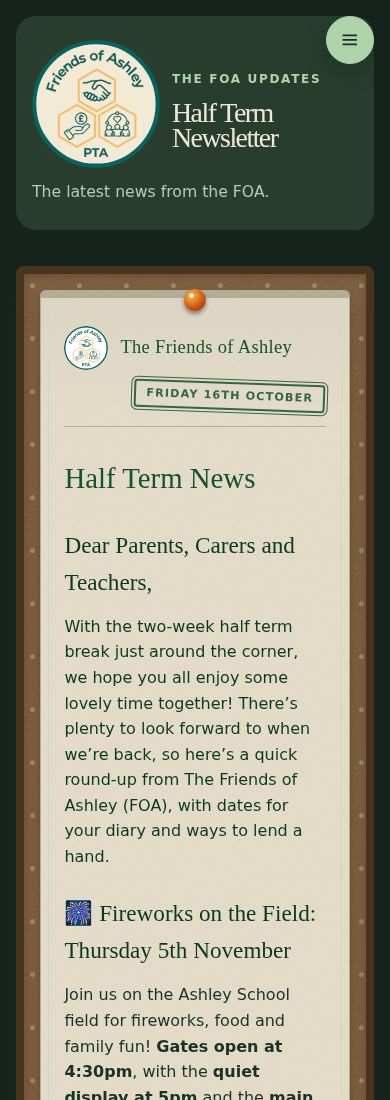
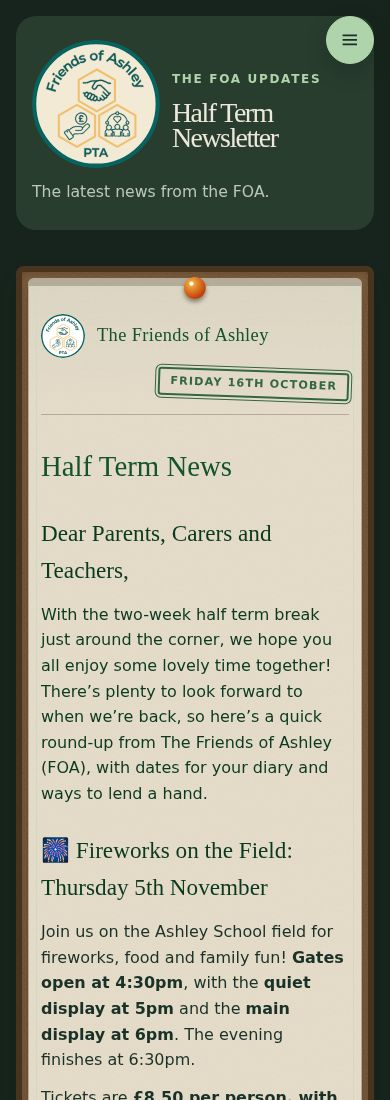
[CF-Pages-Skip] Recover phone newsletter reading width from cork and paper gutters

Changed region(s): [[0.0308, 0.2473, 0.9538, 1.0]]

diff --git a/tests/e2e/newsletter-width.spec.ts b/tests/e2e/newsletter-width.spec.ts
@@ -5,7 +5,15 @@ for(const theme of ['day','night'])for(const width of [390,768,1280,1440])test(`
  const latest=await dimensions();
  if(width===1440){expect(latest.text).toBeGreaterThanOrEqual(920);expect(latest.paper/latest.frame).toBeGreaterThan(.95)}
  if(width===1280)expect(latest.text).toBeGreaterThanOrEqual(800);
- if(width===390)expect(latest.paper).toBeCloseTo(310,0);
+ if(width===390){expect(latest.paper).toBeCloseTo(334,0);expect(latest.text).toBeGreaterThanOrEqual(308)}
  if(width>=1280){await page.getByRole('navigation',{name:'Newsletter issues'}).getByRole('link').nth(1).click();expect((await dimensions()).text).toBeCloseTo(latest.text,0)}
  expect(await page.evaluate(()=>document.documentElement.scrollWidth<=innerWidth)).toBe(true);
+});
+
+for(const width of [360,390,430])for(const theme of ['day','night'])for(const enlarged of [false,true])test(`phone reading width ${width} ${theme} enlarged=${enlarged}`,async({page})=>{
+ await page.setViewportSize({width,height:1000});await page.goto('/newsletter/');await page.evaluate(({theme,enlarged})=>{document.documentElement.dataset.theme=theme;document.documentElement.style.fontSize=enlarged?'200%':'100%'},{theme,enlarged});
+ const size=await page.locator('.newsletter-reading-board article').evaluate(el=>el.clientWidth-parseFloat(getComputedStyle(el).paddingLeft)-parseFloat(getComputedStyle(el).paddingRight));
+ expect(size).toBeGreaterThanOrEqual(width-(enlarged?164:84));
+ expect(await page.evaluate(()=>document.documentElement.scrollWidth<=innerWidth)).toBe(true);
+ await page.locator('.newsletter-reading-board .newsletter-read-more').click();await expect(page.locator('.newsletter-reading-board .newsletter-more')).toBeVisible();
 });

diff --git a/src/styles/global.css b/src/styles/global.css
@@ -2278,6 +2278,18 @@ svg.cta-icon {
     0 10px 18px rgba(60, 35, 15, 0.25);
 }
 
+/* Keep the cork visible without spending phone reading width on two gutters. */
+@media (max-width: 47.99rem) {
+  .newsletter-page .newsletter-board {
+    padding: 0.375rem;
+    border-width: 0.375rem;
+  }
+
+  .newsletter-page .newsletter-board .newsletter-sheet {
+    padding-inline: 0.75rem;
+  }
+}
+
 .newsletter-board .newsletter-sheet + .newsletter-sheet {
   margin-block-start: clamp(1.5rem, 4vw, 2.5rem);
 }

diff --git a/docs/PROJECT-BRIEF.md b/docs/PROJECT-BRIEF.md
@@ -400,4 +400,4 @@ The homepage Donations Day notice sits inside the Christmas Fayre splash below i
 
 The December jumper treatment runs through the sale day and expires at midnight after Friday 4 December (Europe/London). Uniform returns to its ordinary buy/donate content, without an invented next sale date. The same boundary applies to Reps and the active What's On listing; the latter retains a past-event record. On the first build after expiry, Uniform's social image and description return to the standard logo and evergreen copy. The existing daily 08:00 build supplies that server-rendered metadata update; chat apps may retain cached previews.
 
-The desktop newsletter reader uses an 84rem maximum frame, an 18rem issue index and a slimmer cork surround. Give the reading sheet the recovered width rather than widening only the decoration. Keep the existing stacked phone/tablet and enlarged-text layouts, content and reading controls. This layout change is separate from newsletter issue publication.
+The desktop newsletter reader uses an 84rem maximum frame, an 18rem issue index and a slimmer cork surround. Give the reading sheet the recovered width rather than widening only the decoration. On phones, use a 0.375rem cork border and surround with 0.75rem paper side padding, recovering reading width while retaining the noticeboard. Keep the stacked layouts, content and reading controls. This layout change is separate from newsletter issue publication.
